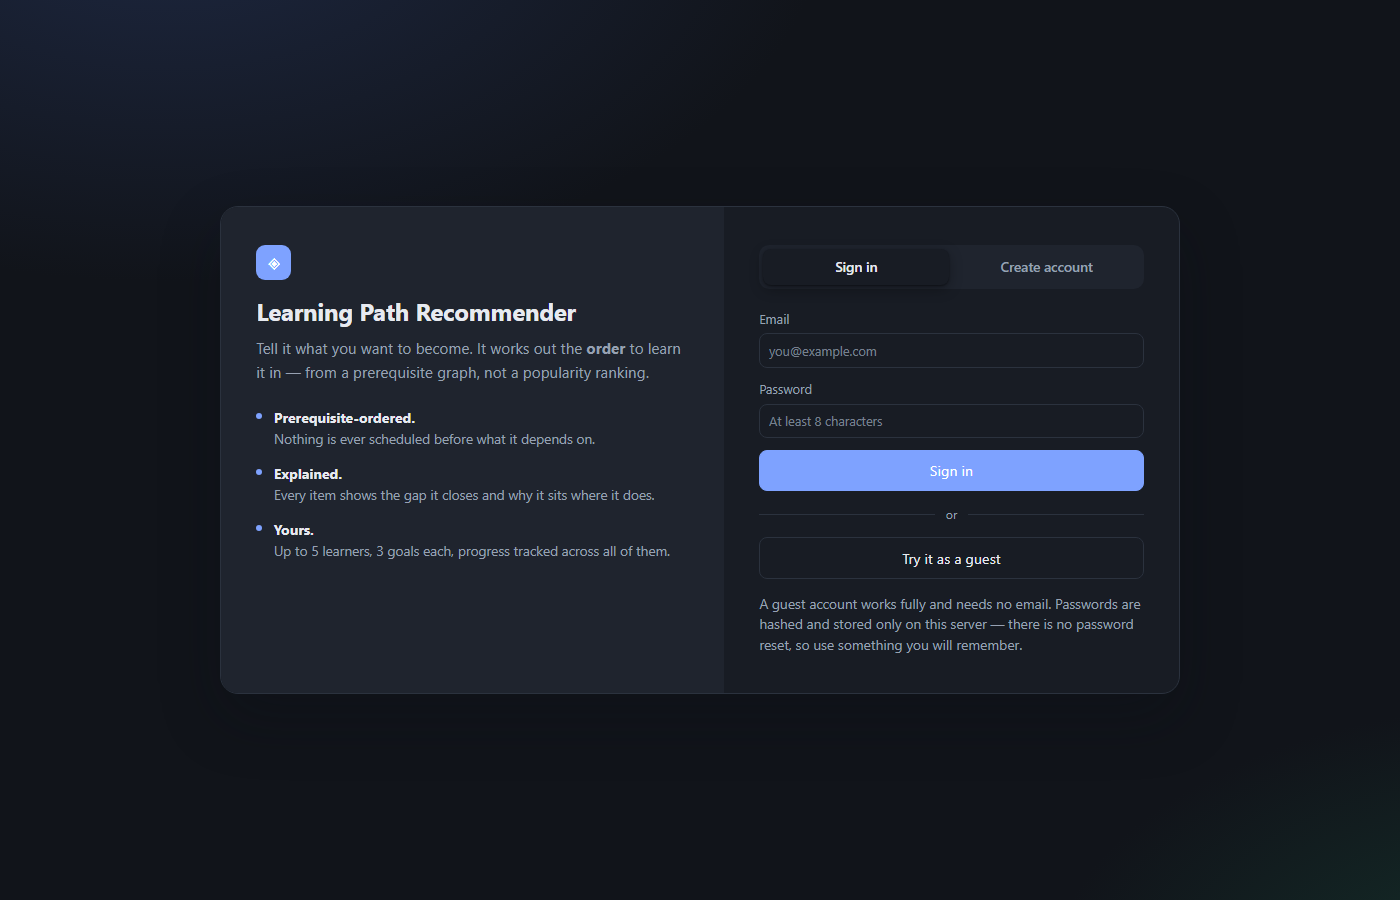
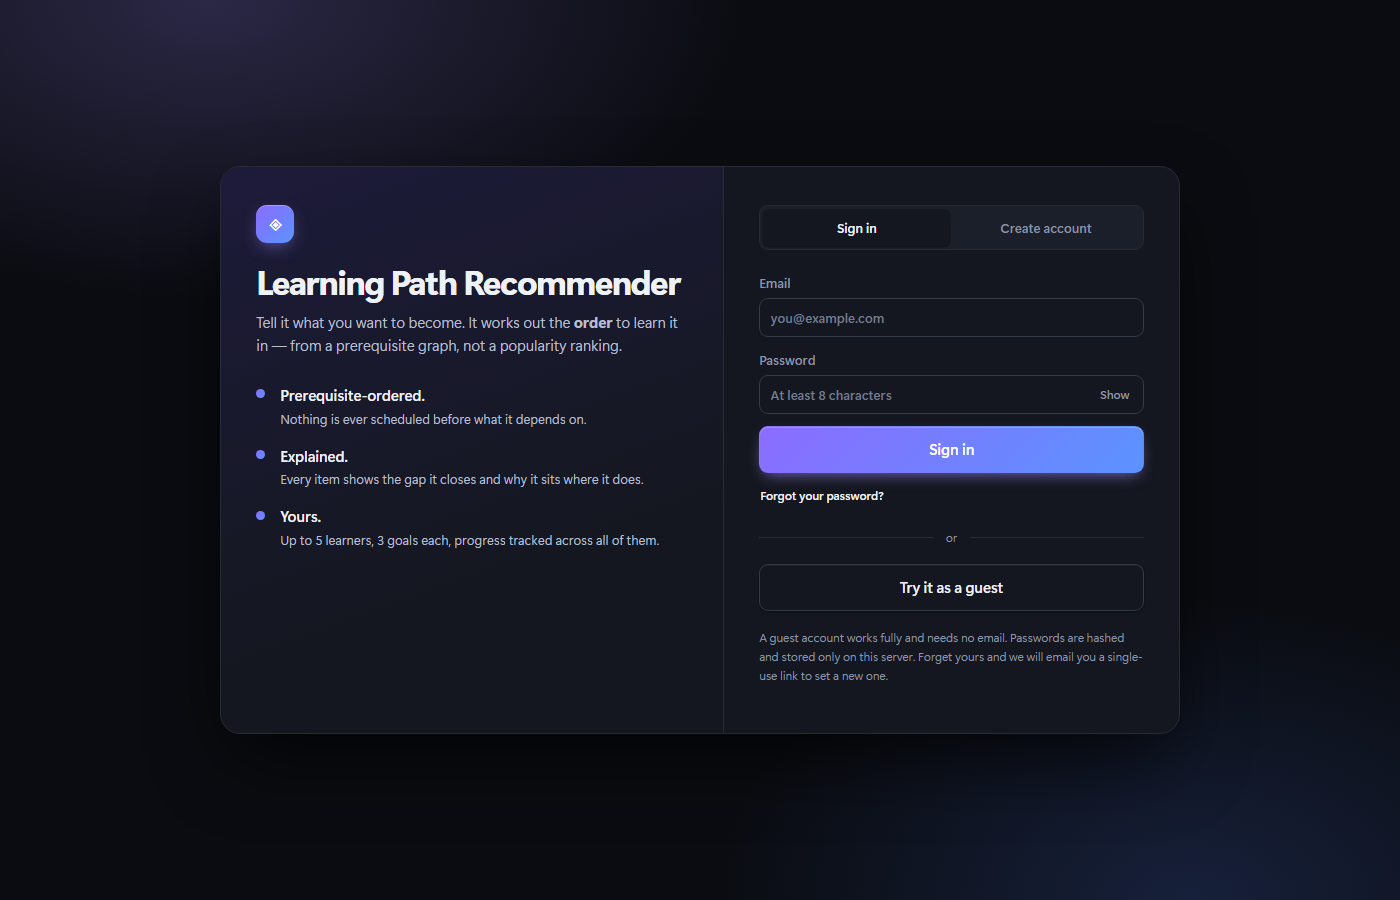
Bring the documentation and screenshots back in step
The README and CHANGELOG still described the security question as the
way back into an account, and the solution documentation still listed
"no password recovery" as a limitation — true when it was written, the
opposite of true now.

The counts were stale in every direction: 85 skills, 139 items, 14 goals
and 448 tests against a real 122, 182, 30 and 518.

All ten screenshots predated the visual redesign, and the sign-in one
showed two fields that no longer exist. Regenerated against the current
build at the same 1400px width. The first attempt caught them
mid-animation, so the driver now emulates prefers-reduced-motion, which
the app already honours, and waits for both the animations and the page
height to settle.

diff --git a/docs/solution-documentation.html b/docs/solution-documentation.html
@@ -406,7 +406,7 @@
           <text x="264" y="296">declared + implied skills</text>
           <text x="264" y="312">+ prior learning history</text>
           <text x="264" y="396">required − known</text>
-          <text x="508" y="174">85 skills · 139 items · 14 goals</text>
+          <text x="508" y="174">122 skills · 182 items · 30 goals</text>
           <text x="508" y="190">validated DAG, checked at import</text>
           <text x="508" y="296">topological layers</text>
           <text x="508" y="312">greedy course cover</text>
@@ -480,7 +480,7 @@
     <h3>Graph algorithms — the core</h3>
     <ul>
       <li><strong>Transitive closure</strong> over the prerequisite DAG, in both directions: downward from the goal to compute everything required, and downward from declared skills to credit everything implied.</li>
-      <li><strong>Kahn's algorithm</strong> for cycle detection, run at import over all 85 skills. A cycle makes any ordering impossible, so it fails loudly at startup rather than silently at generation.</li>
+      <li><strong>Kahn's algorithm</strong> for cycle detection, run at import over all 122 skills. A cycle makes any ordering impossible, so it fails loudly at startup rather than silently at generation.</li>
       <li><strong>Layered topological sort</strong> — not a single linear order, but dependency <em>levels</em>, so items that could be studied in parallel are grouped and can be scheduled together in one milestone.</li>
       <li><strong>Greedy set cover</strong> per layer: a course teaching three outstanding skills covers all three, so a learner is never sent to two courses where one would do.</li>
     </ul>
@@ -698,7 +698,7 @@
     </div>
 
     <p>
-      448 tests run in about fifteen seconds with no network, no API key, and
+      518 tests run in about half a minute with no network, no API key, and
       no tokens spent, at 90% branch coverage. The database is pinned to
       SQLite for the same reason the model is disabled: a configured
       <code>DATABASE_URL</code> must never send a test run to a real server. The load-bearing one is
@@ -746,8 +746,8 @@
     </div>
 
     <ul>
-      <li><strong>The catalogue is curated, not integrated.</strong> 139 items with realistic metadata stand in for a provider feed. The reference resources carry real canonical links; the sample courses do not, and the UI offers a search rather than fabricating a dead one. Integrating a real provider API is a data-layer change, not an architectural one.</li>
-      <li><strong>No password recovery.</strong> Accounts exist and are isolated per user, but there is no email verification and no reset, because both need a mail service the project does not have. A learner who forgets their password makes a new account. That is an honest limit of a demo rather than an oversight.</li>
+      <li><strong>The catalogue is curated, not integrated.</strong> 182 items with realistic metadata stand in for a provider feed. The reference resources carry real canonical links; the sample courses do not, and the UI offers a search rather than fabricating a dead one. Integrating a real provider API is a data-layer change, not an architectural one.</li>
+      <li><strong>Email deliverability is not guaranteed.</strong> A forgotten password is reset by single-use emailed link, sent through Brevo's HTTPS API on its free tier. The sender is a free-provider address, which cannot be DKIM-signed as itself, so some mail will land in spam until a domain is authenticated — a DNS change, not a code change. There is still no address verification at sign-up.</li>
       <li><strong>One connection, serialised.</strong> Every query goes through a single connection behind a lock — correct and simple for one process, and enough for a demo, but a busy deployment would want a pool. The seam is one module, so that is a contained change.</li>
       <li><strong>Rate limiting is in-process.</strong> Correct for one process; a multi-replica deployment would need a shared store.</li>
       <li><strong>Pace uses completion timestamps only.</strong> It cannot yet distinguish "studied five hours on Sunday" from "an hour a day", and does not model format-specific drop-off — the next honest signal to add.</li>
@@ -768,7 +768,7 @@ python run.py                      # http://127.0.0.1:8000
 
 # tests and lint
 pip install -r requirements-dev.txt
-python -m pytest                   # 448 tests, offline
+python -m pytest                   # 518 tests, offline
 python -m ruff check .
 
 # or containerised

diff --git a/README.md b/README.md
@@ -310,14 +310,23 @@ Signing in is optional by design, and the door is not a wall:
 - Every learner, path and message is scoped to one account. Another account
   cannot list them and cannot read them by id — asserted in `test_accounts.py`.
 
-There is no email verification, because that needs a mail service the project
-does not have. Recovery works without one: each account carries a question its
-holder wrote and an answer hashed like a password. That is a speed bump rather
-than authentication — an answer has less entropy than a password — but it
-raises the cost from knowing an email address to knowing an email address and
-one fact about that person, and unlike a recovery code it is something people
-actually remember. The question endpoint answers for unknown addresses too, so
-it cannot be used to discover which emails are registered.
+A forgotten password is reset by emailed link. `POST /api/auth/forgot` mails a
+single-use token that expires in 30 minutes; only its SHA-256 hash is stored,
+so a leaked database hands over nothing usable. Spending the link sets the new
+password and ends every existing session, because somebody resetting has
+either lost the password or lost the account. Asking again retires the previous
+link, so an older email cannot be replayed.
+
+The endpoint always answers the same `202` — unknown address, guest address or
+real account alike — so it cannot be used to discover which emails are
+registered. That property is exact here; the recovery question it replaced
+could only approximate it with a decoy.
+
+Mail goes out over Brevo's HTTPS API rather than SMTP, because Render's free
+tier blocks outbound traffic to ports 25, 465 and 587 — an SMTP transport works
+on a laptop and times out once deployed. Set `BREVO_API_KEY`, `MAIL_FROM` and
+`PUBLIC_BASE_URL` to enable it; leave them unset and the endpoint reports
+itself unavailable while the rest of the app is unaffected.
 
 ### More than one goal at a time
 

diff --git a/CHANGELOG.md b/CHANGELOG.md
@@ -36,16 +36,20 @@ catalogue to the two reasons people learn that are not a job.
   Aptitude & Reasoning — take the catalogue to 122 skills, 182 items, 30 goals.
 - **The skill graph covers every path, not just the active one**, with a
   switcher and a `goal_id` parameter on the endpoint.
-- **Change your account name**, and **recover a forgotten password.** Each
-  account carries a question its holder wrote and an answer hashed like a
-  password, because there is no mail service to send a reset token through.
-  It is a speed bump rather than authentication — an answer has less entropy
-  than a password — but it raises the cost from knowing an email address to
-  knowing an email address and one fact about that person, and unlike a
-  recovery code it is something people actually remember. The question
-  endpoint answers for unknown addresses too, so it cannot be used to find
-  which emails are registered, and both endpoints have their own tight rate
-  limit.
+- **Change your account name**, and **recover a forgotten password by emailed
+  link.** `POST /api/auth/forgot` mails a single-use token that expires in 30
+  minutes and stores only its hash; spending it sets the new password and ends
+  every existing session. Asking again retires the previous link. The reply is
+  identical for a real account, a guest and an unknown address, so it cannot be
+  used to find which emails are registered, and both endpoints share a tight
+  rate limit.
+
+  This replaces the self-written security question that shipped earlier in this
+  release. The question was chosen only because there was no mail service; it
+  could never help an account that had not set one up, and it left the reset
+  screen showing a decoy question that could not work. Mail goes over Brevo's
+  HTTPS API rather than SMTP, because Render's free tier blocks ports 25, 465
+  and 587.
 
 ### Fixed
 
